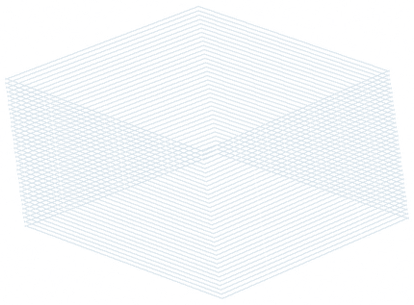
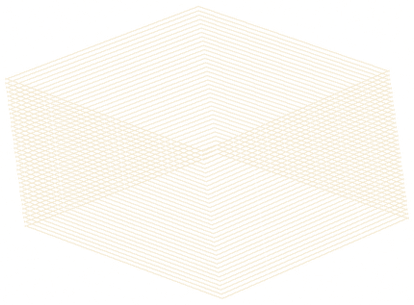
Apply the eight requested cover colors and warm ivory engraving ink

diff --git a/projects-2/edition.css b/projects-2/edition.css
@@ -82,14 +82,14 @@
   .v2-card:not(:nth-child(5)):not(:last-child) .v2-print { padding-inline-end: 22cqi; }
 }
 .v2-print[data-cover="lore"] { --stock: #243858; --letterpress: #eee3c9; }
-.v2-print[data-cover="rag-intelligence"] { --stock: #223e33; }
-.v2-print[data-cover="ai-agent-platform"] { --stock: #323338; }
-.v2-print[data-cover="meter-book"] { --stock: #49332c; }
-.v2-print[data-cover="passage-index"] { --stock: #384958; }
-.v2-print[data-cover="saas-automation"] { --stock: #56432d; }
-.v2-print[data-cover="pulse-study"] { --stock: #404934; }
-.v2-print[data-cover="ml-research-lab"] { --stock: #244447; }
-.v2-print[data-cover="ai-deepfake-detector"] { --stock: #512f3e; }
+.v2-print[data-cover="rag-intelligence"] { --stock: #203638; }
+.v2-print[data-cover="ai-agent-platform"] { --stock: #342d3d; }
+.v2-print[data-cover="meter-book"] { --stock: #543228; }
+.v2-print[data-cover="passage-index"] { --stock: #455064; }
+.v2-print[data-cover="saas-automation"] { --stock: #40311e; }
+.v2-print[data-cover="pulse-study"] { --stock: #738a69; --letterpress: #141b14; }
+.v2-print[data-cover="ml-research-lab"] { --stock: #333d55; }
+.v2-print[data-cover="ai-deepfake-detector"] { --stock: #302735; }
 .v2-print::after { content: ""; position: absolute; inset: 5px; border: 1px solid color-mix(in srgb,currentColor 20%,transparent); border-radius: 5px; pointer-events: none; }
 .v2-print img {
   grid-area: plate; place-self: center; display: block;
